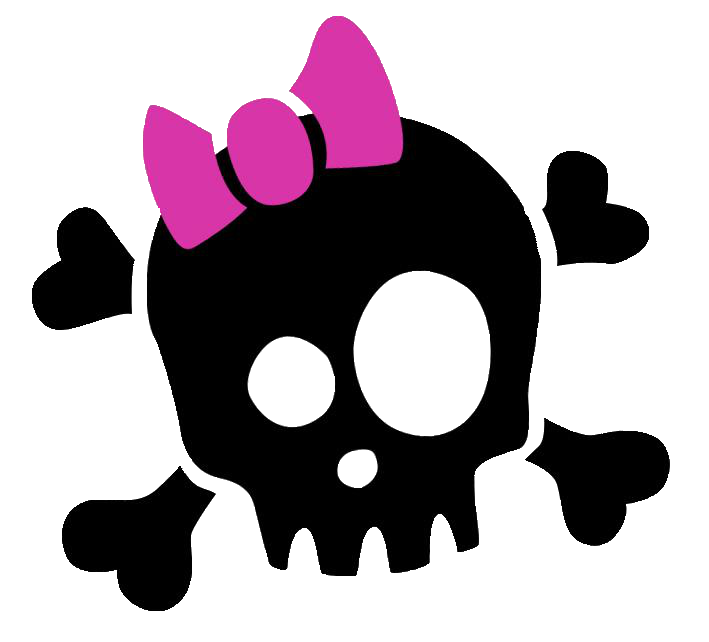
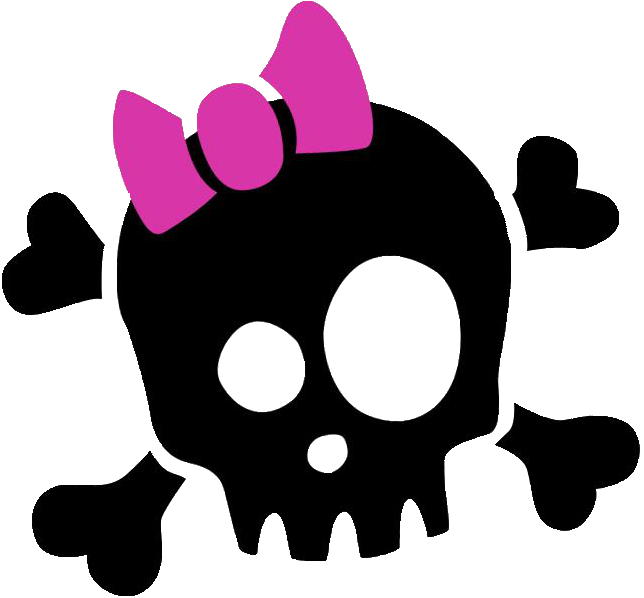
added tail

diff --git a/js/src/player.js b/js/src/player.js
@@ -1,8 +1,7 @@
 class Player {
   constructor() {
-    this.img = loadImage(
-      "img/ddqz4zb-15160fc2-fd15-40ec-94c4-5ccd6b06f214.png"
-    );
+    this.img = loadImage("img/avatar.png");
+    this.previousP = [];
   }
 
   setup() {
@@ -27,7 +26,31 @@ class Player {
       this.x = 0;
     }
 
+    //display player tail
+    let vec = createVector(this.x, this.y);
+    this.previousP.push(vec);
+    for (let i of this.previousP) {
+      i.x -= 12;
+      fill(color(random(150, 255), random(0, 50), random(0, 50)));
+      square(i.x + this.width / 3, i.y + 11, 10, 7);
+      fill(color(random(100, 255), random(50, 150), random(0, 30)));
+      square(i.x + this.width / 3, i.y + 18, 10, 7);
+      fill(color(random(150, 200), random(100, 255), random(0, 50)));
+      square(i.x + this.width / 3, i.y + 25, 10, 7);
+      fill(color(random(0, 100), random(200, 255), random(0, 100)));
+      square(i.x + this.width / 3, i.y + 32, 10, 7);
+      fill(color(random(0, 50), random(100, 200), random(200, 255)));
+      square(i.x + this.width / 3, i.y + 39, 10, 7);
+      fill(color(random(0, 50), random(0, 50), random(200, 255)));
+      square(i.x + this.width / 3, i.y + 46, 10, 7);
+      fill(color(random(100, 200), random(0, 50), random(150, 255)));
+      square(i.x + this.width / 3, i.y + 53, 10, 7);
+    }
+    if (this.previousP.length > 60) {
+      this.previousP.splice(0, 1);
+    }
+
     //display player img
-    image(this.img, this.x, this.y, 80, 80);
+    image(this.img, this.x, this.y, 88, 91);
   }
 }

diff --git a/js/src/game.js b/js/src/game.js
@@ -5,6 +5,7 @@ class Game {
     this.score = 0;
     this.highscore = 0;
     this.enemies = [];
+    this.drinks = [];
   }
 
   init() {
@@ -12,6 +13,7 @@ class Game {
     this.player = new Player();
     this.enemy = new Enemy();
     this.sound = new Sounds();
+    this.drink = new Drink();
   }
 
   setup() {
@@ -27,6 +29,10 @@ class Game {
 
     if (frameCount % 60 === 0) {
       this.enemies.push(new Enemy());
+    }
+
+    if (frameCount % 1000 === 0) {
+      this.drinks.push(new Drink());
     }
 
     //increase score over time
@@ -55,6 +61,22 @@ class Game {
       }
     };
 
+    //logic for checking good collisions
+    let collect = (enemy) => {
+      if (
+        this.player.x + this.player.width > enemy.x &&
+        this.player.x < enemy.x + enemy.width &&
+        this.player.y + this.player.height > enemy.y &&
+        this.player.y < enemy.y + enemy.height
+      ) {
+        console.log("boom!");
+
+        //logic to only receive 1 hit
+        this.hp++;
+        return true;
+      }
+    };
+
     this.enemies.forEach((enemy) => {
       collide(enemy);
       enemy.display();
@@ -62,6 +84,15 @@ class Game {
 
     this.enemies = this.enemies.filter((enemy) => {
       return !collide(enemy);
+    });
+
+    this.drinks.forEach((drink) => {
+      collect(drink);
+      drink.display();
+    });
+
+    this.drinks = this.drinks.filter((drink) => {
+      return !collect(drink);
     });
   }
 }

diff --git a/index.html b/index.html
@@ -24,6 +24,7 @@
       <!-- this is the js lib section -->
       <script src="./js/lib/p5.min.js"></script>
       <script src="./js/lib/p5.sound.min.js"></script>
+      <script src="./js/src/drink.js"></script>
       <script src="./js/src/sounds.js"></script>
       <script src="./js/src/background.js"></script>
       <script src="./js/src/player.js"></script>

diff --git a/js/src/drink.js b/js/src/drink.js
@@ -1,0 +1,13 @@
+class Drink {
+  constructor() {
+    this.height = 80;
+    this.width = 80;
+    this.x = width;
+    this.y = random(0, height - this.height);
+    this.img = loadImage("img/drink.png");
+  }
+  display() {
+    this.x -= 3 * game.speed;
+    image(this.img, this.x, this.y, 80, 80);
+  }
+}

diff --git a/js/main.js b/js/main.js
@@ -5,9 +5,6 @@ let playing = false;
 function preload() {
   game.init();
   imgN = loadImage("img/fathorn.png");
-  // song = loadSound("sounds/raceway.mp3", function () {
-  //   console.log("loaded music!");
-  // });
 }
 
 function setup() {
